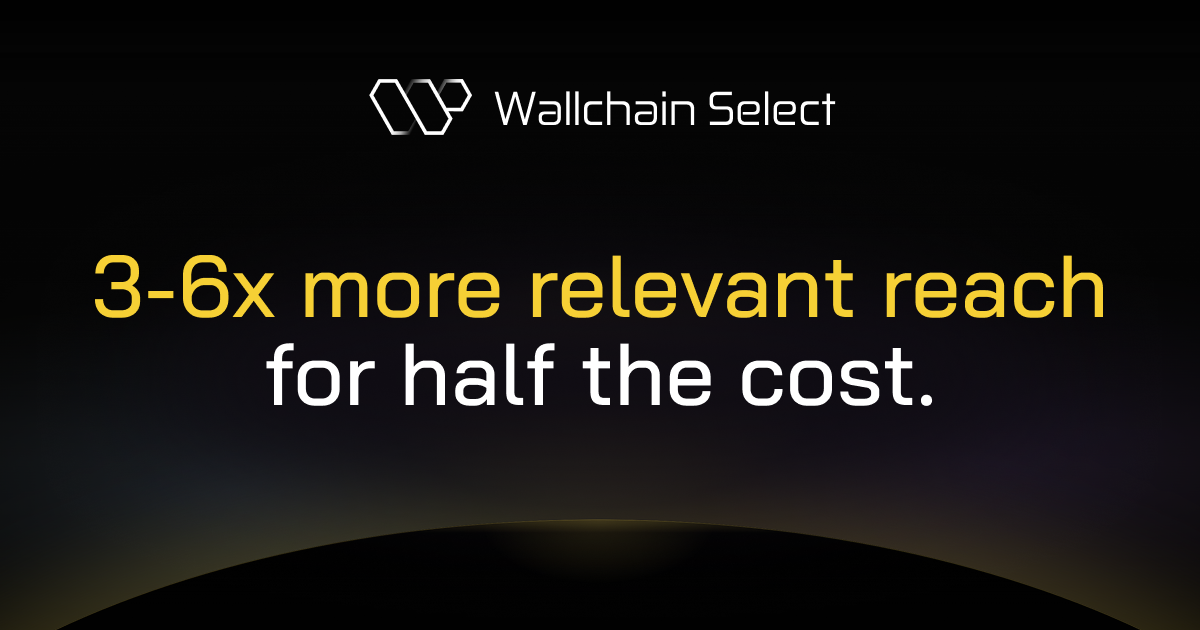
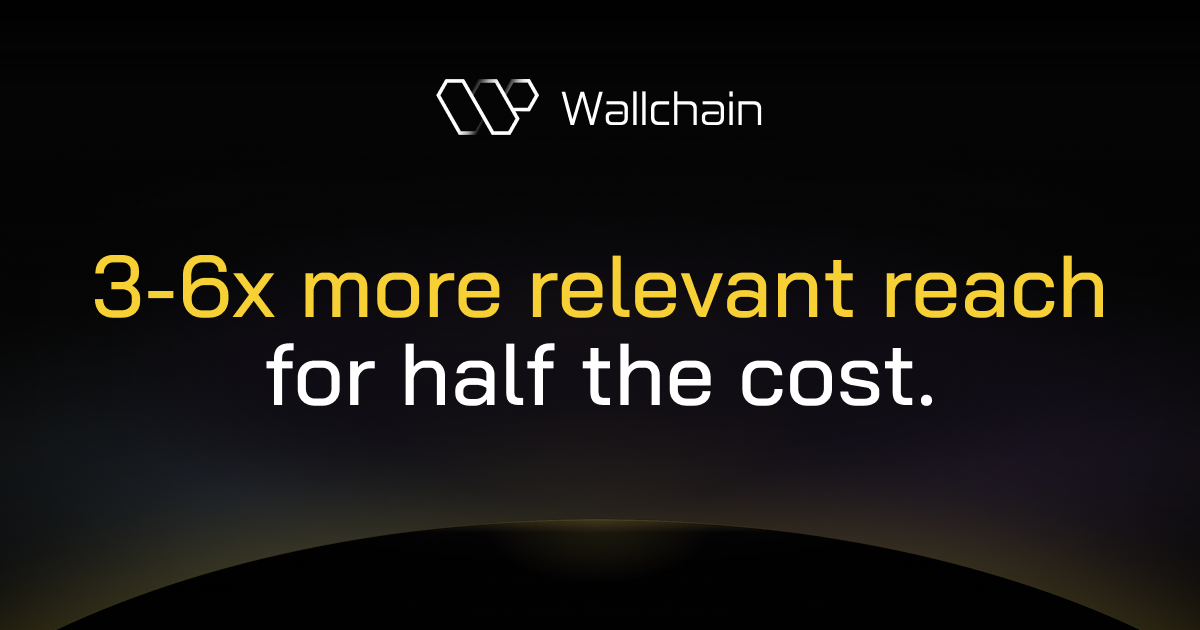
Refine landing page layout and copy

Changed region(s): [[0.3083, 0.1206, 0.7092, 0.2111]]

diff --git a/ui/src/App.tsx b/ui/src/App.tsx
@@ -190,8 +190,7 @@ const footerLinkGroups = [
   {
     title: "Company",
     links: [
-      { label: "Book a call", href: tgContactUrl },
-      { label: "Contact", href: tgContactUrl },
+      { label: "Let's Talk", href: tgContactUrl },
       { label: "FAQ", href: "#faq" },
     ],
   },
@@ -580,18 +579,18 @@ function Section({
 
 function Hero() {
   return (
-    <section className="relative overflow-hidden bg-surface-page px-4 pb-16 pt-10 text-text-primary sm:px-6 lg:px-8" id="hero">
+    <section className="relative overflow-hidden bg-surface-page px-4 pb-16 pt-6 text-text-primary sm:px-6 sm:pt-8 lg:px-8" id="hero">
       <div className="hero-aurora" />
       <div className="hero-dome" />
 
-      <div className={`${ui.layout.container} relative z-10 flex min-h-[760px] flex-col items-center justify-start pt-10 text-center sm:min-h-[820px] sm:pt-14 lg:min-h-[850px] lg:pt-16`}>
+      <div className={`${ui.layout.container} relative z-10 flex min-h-[720px] flex-col items-center justify-start pt-6 text-center sm:min-h-[800px] sm:pt-10 lg:min-h-[850px] lg:pt-14`}>
         <div className="hero-stat-row hero-meta-text text-text-secondary">
           {heroBullets.map((bullet) => (
             <span key={bullet}>{bullet}</span>
           ))}
         </div>
 
-        <h1 className="mt-10 max-w-5xl text-hero-title font-medium tracking-normal">
+        <h1 className="mt-8 max-w-5xl text-hero-title font-medium tracking-normal sm:mt-9">
           <span className="text-accent">3-6x more relevant reach</span>
           <br className="hidden sm:block" /> for half the cost.
         </h1>
@@ -652,8 +651,8 @@ function Hero() {
             </div>
           </div>
 
-          <div className="hidden flex-col items-start justify-center gap-5 px-3 text-neutral-400 sm:flex sm:items-center sm:gap-0">
-            <div className="flex flex-col items-start justify-center gap-5 sm:flex-row sm:items-center sm:gap-8">
+          <div className="hidden flex-col items-start justify-center gap-5 px-3 text-neutral-400 sm:flex sm:items-center sm:gap-0 lg:-translate-y-10">
+            <div className="flex flex-col items-start justify-center gap-5 sm:flex-row sm:items-center sm:gap-8 lg:translate-y-[12px]">
               <div className="flex w-full items-center justify-start gap-4 sm:w-auto">
                 <span className="hero-meta-text hero-trust-label">
                   Backed by
@@ -679,17 +678,19 @@ function Hero() {
               </div>
             </div>
 
-            <p className={`${sectionEyebrowClass} mt-8 mb-1`}>
-              Used by teams at
-            </p>
-            <div className="hero-logo-zone mt-3 w-full">
-              <div className="hero-logo-shell mx-auto w-full max-w-container">
-                <div className="hero-logo-track">
-                  {[...partnerLogos, ...partnerLogos, ...partnerLogos].map((logo, index) => (
-                    <div className="hero-logo-item" key={`${logo.name}-${index}`}>
-                      <img alt={logo.name} decoding="async" src={logo.src} />
-                    </div>
-                  ))}
+            <div className="lg:translate-y-10">
+              <p className={`${sectionEyebrowClass} mt-8 mb-1`}>
+                Used by teams at
+              </p>
+              <div className="hero-logo-zone mt-3 w-full">
+                <div className="hero-logo-shell mx-auto w-full max-w-container">
+                  <div className="hero-logo-track">
+                    {[...partnerLogos, ...partnerLogos, ...partnerLogos].map((logo, index) => (
+                      <div className="hero-logo-item" key={`${logo.name}-${index}`}>
+                        <img alt={logo.name} decoding="async" src={logo.src} />
+                      </div>
+                    ))}
+                  </div>
                 </div>
               </div>
             </div>
@@ -706,9 +707,9 @@ function Pain() {
     ["02", "impressions", "240K"],
   ];
   const missedSignals = [
-    ["03", "audience_overlap", "61% audience overlap"],
-    ["04", "off_niche", "72% outside target niche"],
-    ["05", "frequency_dist", "random frequency distribution"],
+    ["03", "overlap_score", "61% audience overlap"],
+    ["04", "niche_match", "28% niche alignment"],
+    ["05", "distribution", "random audience distribution"],
   ];
 
   return (
@@ -887,14 +888,14 @@ function NicheMetricCopy({ compact = false }: { compact?: boolean }) {
             <span className="size-3.5 rounded-full border border-white/30 bg-white/[0.03]" />
             <p
               className={`${sectionEyebrowClass} ${
-                compact ? "max-w-none text-[0.92rem] leading-[1.06]" : ""
+                compact ? "max-w-none text-[0.92rem] leading-[1.06] lg:whitespace-nowrap" : ""
               }`}
             >
               {compact ? (
                 <>
                   This is what
-                  <br />
-                  you see
+                  <br className="lg:hidden" />
+                  <span className="lg:ml-1">you see</span>
                 </>
               ) : (
                 "This is what you see"
@@ -922,14 +923,14 @@ function NicheMetricCopy({ compact = false }: { compact?: boolean }) {
             <span className="size-3.5 rounded-full border border-accent/80 bg-accent/20 shadow-[0_0_22px_rgba(247,209,51,0.24)]" />
             <p
               className={`${sectionEyebrowClass} text-accent/75 ${
-                compact ? "max-w-none text-[0.92rem] leading-[1.06]" : ""
+                compact ? "max-w-none text-[0.92rem] leading-[1.06] lg:whitespace-nowrap" : ""
               }`}
             >
               {compact ? (
                 <>
                   This is what
-                  <br />
-                  matters
+                  <br className="lg:hidden" />
+                  <span className="lg:ml-1">matters</span>
                 </>
               ) : (
                 "This is what matters"
@@ -971,7 +972,7 @@ function NicheDiscoveryCard({ className = "" }: { className?: string }) {
           variant="buyer"
         />
       </div>
-      <p className="mt-6 flex items-center justify-center gap-2.5 pt-5 text-center text-body font-normal text-text-secondary">
+      <p className="mt-6 flex w-full flex-col items-center justify-center gap-2 pt-5 text-center text-body font-normal text-text-secondary sm:flex-row sm:gap-2.5">
         <BadgeCheck className="size-3.5 shrink-0 text-accent" />
         <span>
           We mapped 56M Twitter accounts, apply additional filtering
@@ -1491,28 +1492,49 @@ function FrequencyChart({
   values: number[];
 }) {
   return (
-    <div className="grid h-28 grid-cols-10 items-end gap-1 border-b border-neutral-700 pb-1">
-      {exposureLabels.map((label, index) => {
-        const barTone = !controlled
-          ? "bg-neutral-600"
-          : index === peakIndex
-            ? "bg-accent"
-            : index < peakIndex
-              ? "bg-sky-400/35"
-              : "bg-red-300/35";
+    <div className="border-b border-neutral-700 pb-1">
+      <div className="grid h-[5.75rem] grid-cols-10 items-end gap-1.5 sm:h-28 sm:gap-1">
+        {exposureLabels.map((label, index) => {
+          const barTone = !controlled
+            ? "bg-neutral-600"
+            : index === peakIndex
+              ? "bg-accent"
+              : index < peakIndex
+                ? "bg-sky-400/35"
+                : "bg-red-300/35";
 
-        return (
-          <span className="grid h-full grid-rows-[1fr_auto] items-end gap-1" key={label}>
-            <i
-              className={`block min-h-2 rounded-t-sm ${barTone}`}
-              style={{ height: `${clampNumber(values[index], 8, 92)}%` }}
-            />
-            <b className="text-center font-mono text-label font-semibold text-neutral-500">
-              {label}
-            </b>
-          </span>
-        );
-      })}
+          return (
+            <span className="flex h-full min-w-0 items-end" key={label}>
+              <i
+                className={`block min-h-2 w-full rounded-t-sm ${barTone}`}
+                style={{ height: `${clampNumber(values[index], 8, 92)}%` }}
+              />
+            </span>
+          );
+        })}
+      </div>
+      <div className="mt-1 grid grid-cols-3 items-start font-mono text-xs leading-tight text-neutral-500 sm:hidden">
+        <span className="whitespace-nowrap text-left max-[340px]:whitespace-normal">
+          Max
+          <span className="max-[340px]:hidden"> </span>
+          <br className="hidden max-[340px]:block" />
+          reach
+        </span>
+        <span className="text-center">Balanced</span>
+        <span className="whitespace-nowrap text-right max-[340px]:whitespace-normal">
+          Max
+          <span className="max-[340px]:hidden"> </span>
+          <br className="hidden max-[340px]:block" />
+          presence
+        </span>
+      </div>
+      <div className="mt-1 hidden grid-cols-10 sm:grid">
+        {exposureLabels.map((label) => (
+          <b className="text-center font-mono text-label font-semibold text-neutral-500" key={label}>
+            {label}
+          </b>
+        ))}
+      </div>
     </div>
   );
 }
@@ -2058,7 +2080,7 @@ function CampaignCalculator() {
 
           <button
             aria-expanded={standardOpen}
-            className="flex min-h-12 items-center justify-between rounded-2xl border border-[#f7d133]/25 bg-[#f7d133]/12 px-4 text-left text-sm font-medium text-[#e8cd57] shadow-[inset_0_1px_0_rgba(255,255,255,0.03)] xl:hidden"
+            className="flex min-h-12 items-center justify-center rounded-[20px] border-0 bg-[#f7d133]/12 px-4 text-center text-sm font-medium text-[#e8cd57] shadow-[inset_0_1px_0_rgba(255,255,255,0.03)] xl:hidden"
             onClick={() => setStandardOpen((value) => !value)}
             type="button"
           >
@@ -2103,7 +2125,7 @@ function ProofBand() {
       value: 2,
       suffix: "x",
       decimals: 0,
-      label: "cheaper per niche audience reader",
+      label: "lower cost per niche audience",
       bg: "#f7d133",
       fg: "#1a1400",
     },
@@ -2161,7 +2183,7 @@ function Footer() {
           </p>
           </div>
 
-          <div className="grid gap-8 sm:grid-cols-2 sm:gap-12">
+          <div className="grid grid-cols-2 gap-8 sm:gap-12">
             {footerLinkGroups.map((group) => (
               <div key={group.title}>
                 <h3 className={sectionEyebrowClass}>

diff --git a/ui/src/index.css b/ui/src/index.css
@@ -331,23 +331,37 @@
 
 .hero-stat-row {
   display: flex;
-  flex-wrap: wrap;
+  flex-direction: column;
+  align-items: center;
   justify-content: center;
-  column-gap: 40px;
-  row-gap: 12px;
+  row-gap: 8px;
 }
 
 .hero-stat-row span {
   position: relative;
+  text-align: center;
 }
 
 .hero-stat-row span:not(:last-child)::after {
-  content: "·";
+  content: none;
   position: absolute;
   left: calc(100% + 20px);
   top: 50%;
   color: rgb(115 115 115 / 0.9);
   transform: translate(-50%, -50%);
+}
+
+@media (min-width: 640px) {
+  .hero-stat-row {
+    flex-direction: row;
+    flex-wrap: wrap;
+    column-gap: 40px;
+    row-gap: 12px;
+  }
+
+  .hero-stat-row span:not(:last-child)::after {
+    content: "·";
+  }
 }
 
 .hero-aurora {